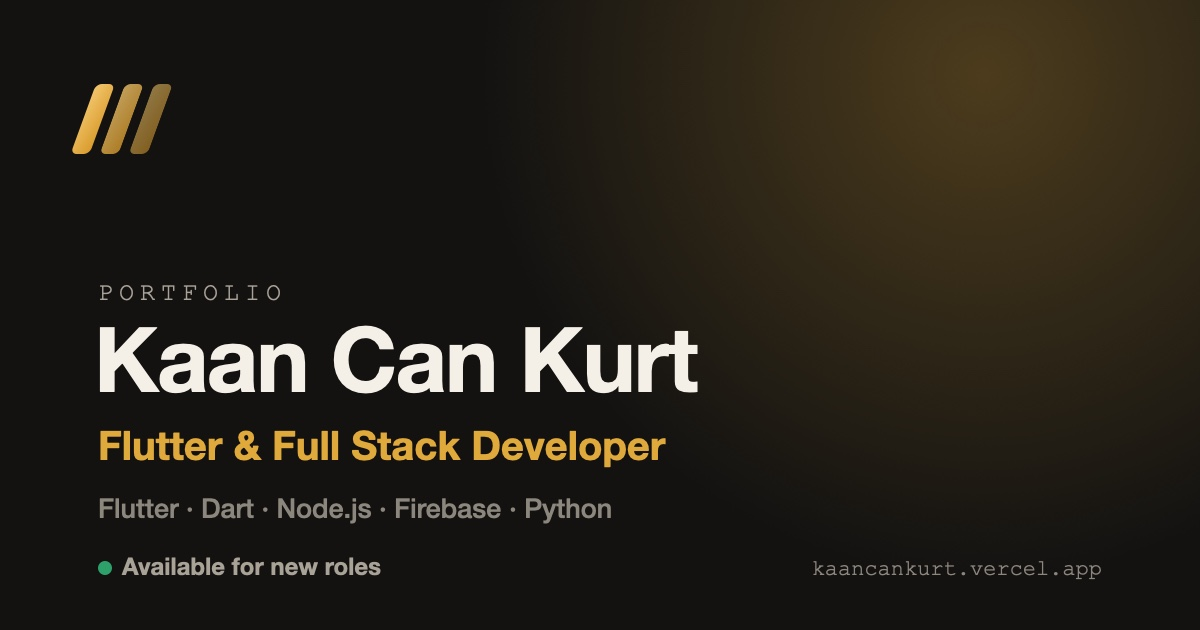
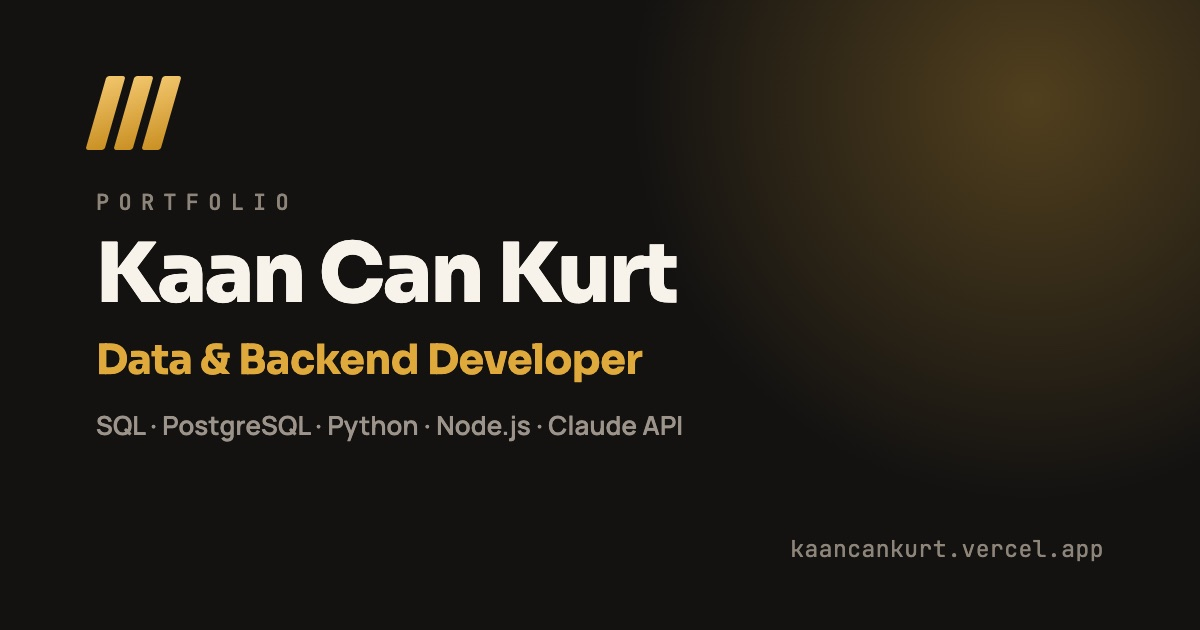
chore: Hero ve meta etiketlerini CV'deki konumlandirmayla hizala
CV veri ve backend tarafina konumlanmisken site hala "Flutter & Full
Stack Developer" diyordu; ikisi birbirinden ayrismisti.

- hero: unvan "Data & Backend Developer" / "Veri & Backend Gelistirici",
  spot metin veri dogrulama-donusturme pipeline'lari ve serbest metni
  semaya uygun veriye cevirme uzerinden yeniden yazildi (TR + EN)
- <title>, meta description ve keywords guncellendi
- Open Graph ve Twitter kartlari (title, description, image:alt)
- JSON-LD: jobTitle "Data & Backend Developer", knowsAbout listesi
  CV'nin sirasiyla veri basligiyla basliyor
- site.webmanifest: name ve description
- assets/og-image.jpg yeniden uretildi; eski gorselde unvan ve
  "Flutter · Dart · Node.js · Firebase · Python" satiri gomuluydu,
  meta guncellenip gorsel kalsa paylasim karti kendisiyle celisecekti.
  Yeni satir: SQL · PostgreSQL · Python · Node.js · Claude API.
  "Available for new roles" satiri istek uzerine cikarildi.
  Sitenin kendi renk ve fontlariyla uretildi (77.8 KB -> 63.2 KB)

diff --git a/index.html b/index.html
@@ -6,13 +6,13 @@
     <meta name="viewport" content="width=device-width, initial-scale=1.0" />
     <meta
       name="description"
-      content="Kaan Can Kurt — Flutter & Full Stack Developer. Cross-platform mobile apps with Flutter, full-stack web products, and machine-learning projects."
+      content="Kaan Can Kurt — Data &amp; Backend Developer. Data validation and transformation pipelines with SQL, PostgreSQL, Python and Node.js, plus LLM integration."
     />
-    <title>Kaan Can Kurt — Flutter &amp; Full Stack Developer</title>
+    <title>Kaan Can Kurt — Data &amp; Backend Developer</title>
     <meta name="author" content="Kaan Can Kurt" />
     <meta
       name="keywords"
-      content="Kaan Can Kurt, Flutter Developer, Full Stack Developer, Mobile Developer, Dart, Node.js, Firebase, Python, software engineer, İzmir, Türkiye"
+      content="Kaan Can Kurt, Backend Developer, Data Engineering, SQL, PostgreSQL, data modelling, data quality, master data management, Python, Node.js, Claude API, MCP, software engineer, İzmir, Türkiye"
     />
     <meta name="robots" content="index, follow" />
     <link rel="canonical" href="https://kaancankurt.vercel.app/" />
@@ -27,11 +27,11 @@
     <meta property="og:site_name" content="Kaan Can Kurt" />
     <meta
       property="og:title"
-      content="Kaan Can Kurt — Flutter & Full Stack Developer"
+      content="Kaan Can Kurt — Data &amp; Backend Developer"
     />
     <meta
       property="og:description"
-      content="Cross-platform mobile apps with Flutter and full-stack web products, from interface to API. Selected projects, experience, and contact."
+      content="Data validation and transformation pipelines with SQL, PostgreSQL, Python and Node.js. Selected projects, experience, and contact."
     />
     <meta property="og:url" content="https://kaancankurt.vercel.app/" />
     <meta
@@ -42,7 +42,7 @@
     <meta property="og:image:height" content="630" />
     <meta
       property="og:image:alt"
-      content="Kaan Can Kurt — Flutter & Full Stack Developer"
+      content="Kaan Can Kurt — Data &amp; Backend Developer"
     />
     <meta property="og:locale" content="en_US" />
     <meta property="og:locale:alternate" content="tr_TR" />
@@ -51,11 +51,11 @@
     <meta name="twitter:card" content="summary_large_image" />
     <meta
       name="twitter:title"
-      content="Kaan Can Kurt — Flutter & Full Stack Developer"
+      content="Kaan Can Kurt — Data &amp; Backend Developer"
     />
     <meta
       name="twitter:description"
-      content="Cross-platform mobile apps with Flutter and full-stack web products, from interface to API."
+      content="Data validation and transformation pipelines with SQL, PostgreSQL, Python and Node.js."
     />
     <meta
       name="twitter:image"
@@ -76,7 +76,7 @@
         "@type": "Person",
         "name": "Kaan Can Kurt",
         "url": "https://kaancankurt.vercel.app/",
-        "jobTitle": "Flutter & Full Stack Developer",
+        "jobTitle": "Data & Backend Developer",
         "email": "mailto:kaancan368368@gmail.com",
         "image": "https://kaancankurt.vercel.app/assets/og-image.jpg",
         "sameAs": [
@@ -84,16 +84,17 @@
           "https://linkedin.com/in/kaan-can-kurt-805990299"
         ],
         "knowsAbout": [
-          "Flutter",
-          "Dart",
-          "Full Stack Development",
+          "SQL",
+          "PostgreSQL",
+          "Data Modelling",
+          "Data Pipelines",
+          "Data Quality",
+          "Master Data Management",
+          "Python",
           "Node.js",
           "Express",
-          "PostgreSQL",
-          "Firebase",
-          "Python",
-          "Mobile Development",
-          "AI Integration"
+          "LLM Integration",
+          "Flutter"
         ],
         "alumniOf": {
           "@type": "CollegeOrUniversity",
@@ -229,10 +230,10 @@
       <div class="section__text" data-reveal>
         <p class="section__text__p1" data-i18n="hero.hello">Hello, I'm</p>
         <h1 class="title">Kaan Can Kurt</h1>
-        <p class="section__text__p2" data-i18n="hero.role">Flutter &amp; Full Stack Developer</p>
+        <p class="section__text__p2" data-i18n="hero.role">Data &amp; Backend Developer</p>
         <p class="hero-lead" data-i18n="hero.lead">
-          I build cross-platform mobile apps with Flutter and ship full-stack
-          web products, from the interface down to the API.
+          I build data validation and transformation pipelines with Python and
+          Node.js on PostgreSQL, and turn free text into schema-conformant data.
         </p>
         <div class="btn-container">
           <div class="cv-dropdown">

diff --git a/script.js b/script.js
@@ -441,9 +441,9 @@ document.addEventListener("DOMContentLoaded", function () {
       "nav.projects": "Projects",
       "nav.contact": "Contact",
       "hero.hello": "Hello, I'm",
-      "hero.role": "Flutter & Full Stack Developer",
+      "hero.role": "Data & Backend Developer",
       "hero.lead":
-        "I build cross-platform mobile apps with Flutter and ship full-stack web products, from the interface down to the API.",
+        "I build data validation and transformation pipelines with Python and Node.js on PostgreSQL, and turn free text into schema-conformant data.",
       "hero.cv": "Get My CV",
       "hero.contactBtn": "Contact",
       "cv.en": "English CV",
@@ -521,9 +521,9 @@ document.addEventListener("DOMContentLoaded", function () {
       "nav.projects": "Projeler",
       "nav.contact": "İletişim",
       "hero.hello": "Merhaba, ben",
-      "hero.role": "Flutter & Full Stack Geliştirici",
+      "hero.role": "Veri & Backend Geliştirici",
       "hero.lead":
-        "Flutter ile çoklu platform mobil uygulamalar geliştiriyor, arayüzden API'ye kadar full-stack web ürünleri yayınlıyorum.",
+        "Python ve Node.js ile PostgreSQL üzerinde veri doğrulama ve dönüştürme pipeline'ları kuruyor, serbest metni şemaya uygun veriye dönüştürüyorum.",
       "hero.cv": "CV'mi Al",
       "hero.contactBtn": "İletişim",
       "cv.en": "İngilizce CV",
